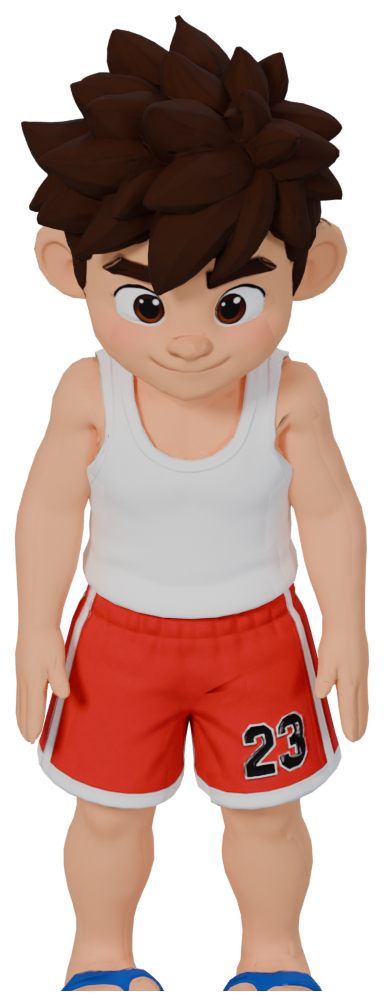
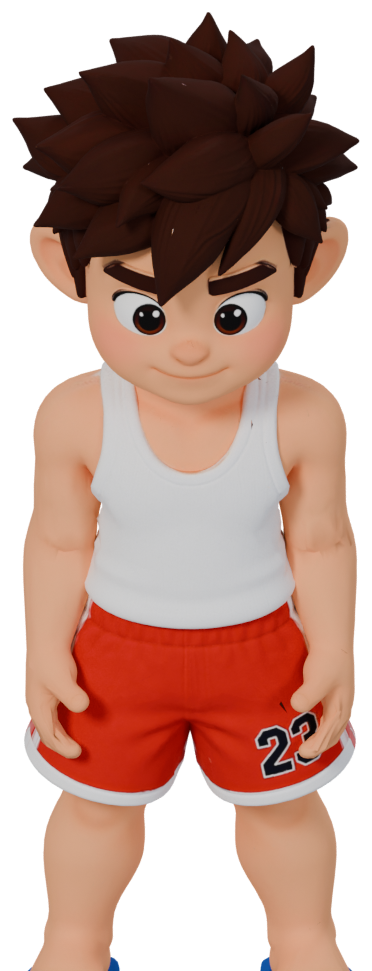
feat(kids): a portrait for every kid
render_portrait.py also poses the new rigged kids (first frame of scratch_head, a relaxed
stand) and crops the result; portraits import as lossy.

Claude-Session: https://claude.ai/code/session_018qtt7uTeVSGsnvQanUjafP

Changed region(s): [[0.0296, 0.0, 0.9758, 1.0], [0.414, 0.1854, 0.4435, 0.2163], [0.3548, 0.8651, 0.3844, 0.896]]

diff --git a/tools/blender/render_portrait.py b/tools/blender/render_portrait.py
@@ -1,9 +1,11 @@
-"""Renders a kid's HUD portrait (transparent PNG, standing, facing the camera) from the rigged
-3D boy (Meshy model, Mixamo skeleton), with the same soft three-light look as the game.
+"""Renders a kid's HUD portrait (transparent PNG, standing, facing the camera) from a rigged
+3D kid, with the same soft three-light look as the game.
 
-usage: python render_portrait.py -- model.glb out_dir
-Writes out_dir/idle_toward.png; crop it to the kid and save as assets/portraits/<kid>.png.
-The model (not stored in the repo) is the owner's Meshy GLB.
+usage: python render_portrait.py -- model.glb out_dir [portrait.png]
+Writes out_dir/idle_toward.png; with a third argument it also crops it to the kid and saves it
+there (assets/portraits/<kid>.png). Works with the Meshy boy (Mixamo skeleton, posed here) and
+with the rigged kids that carry their own clips (posed from the first frame of scratch_head,
+a relaxed stand). The models are the owner's and are not stored in the repo.
 """
 import math
 import os
@@ -92,6 +94,50 @@ def setup_scene():
     return scene, cam
 
 
+RELAXED_CLIP = "scratch_head"  # its first frame is a relaxed stand, arms down
+CROP_MARGIN = 12
+
+
+def crop_to_kid(src, dst):
+    """Trim the transparent border around the kid (a small margin kept)."""
+    from PIL import Image
+    image = Image.open(src)
+    left, top, right, bottom = image.getbbox()
+    box = (max(0, left - CROP_MARGIN), max(0, top - CROP_MARGIN),
+           min(image.width, right + CROP_MARGIN), min(image.height, bottom + CROP_MARGIN))
+    image.crop(box).save(dst)
+
+
+def render_rigged_kid(argv):
+    """A rigged kid with its own clips: pose it from the relaxed clip and render it standing."""
+    out_dir = argv[1]
+    rig = next(o for o in bpy.data.objects if o.type == "ARMATURE")
+    for owner in [rig] + [o.data.shape_keys for o in bpy.data.objects if o.type == "MESH" and o.data.shape_keys]:
+        if owner.animation_data:
+            for track in owner.animation_data.nla_tracks:
+                track.mute = True
+    for action in bpy.data.actions:
+        if action.name.startswith(RELAXED_CLIP):
+            slot = next((sl for sl in action.slots if sl.target_id_type == "OBJECT"), None)
+            if slot is not None:
+                rig.animation_data_create()
+                rig.animation_data.action = action
+                rig.animation_data.action_slot = slot
+    tame_materials()
+    scene, cam = setup_scene()
+    scene.frame_set(0)
+    spec = POSES["idle"]
+    pitch = math.radians(PITCH)
+    target = Vector((0, 0, spec["target"]))
+    cam.location = target + Vector((0, -math.cos(pitch), math.sin(pitch))) * 8.0
+    cam.rotation_euler = (math.radians(90) - pitch, 0, 0)
+    out = os.path.join(out_dir, "idle_toward.png")
+    scene.render.filepath = out
+    bpy.ops.render.render(write_still=True)
+    if len(argv) > 2:
+        crop_to_kid(out, argv[2])
+
+
 def main():
     argv = sys.argv[sys.argv.index("--") + 1:]
     src, out_dir = argv[0], argv[1]
@@ -102,6 +148,9 @@ def main():
     ico = bpy.data.objects.get("Icosphere")
     if ico:
         bpy.data.objects.remove(ico)
+    if "target_character" not in bpy.data.objects:
+        render_rigged_kid(argv)
+        return
     rig = bpy.data.objects["target_character"]
     rig.animation_data_create()
     rig.animation_data.action = bpy.data.actions.new("Pose")
